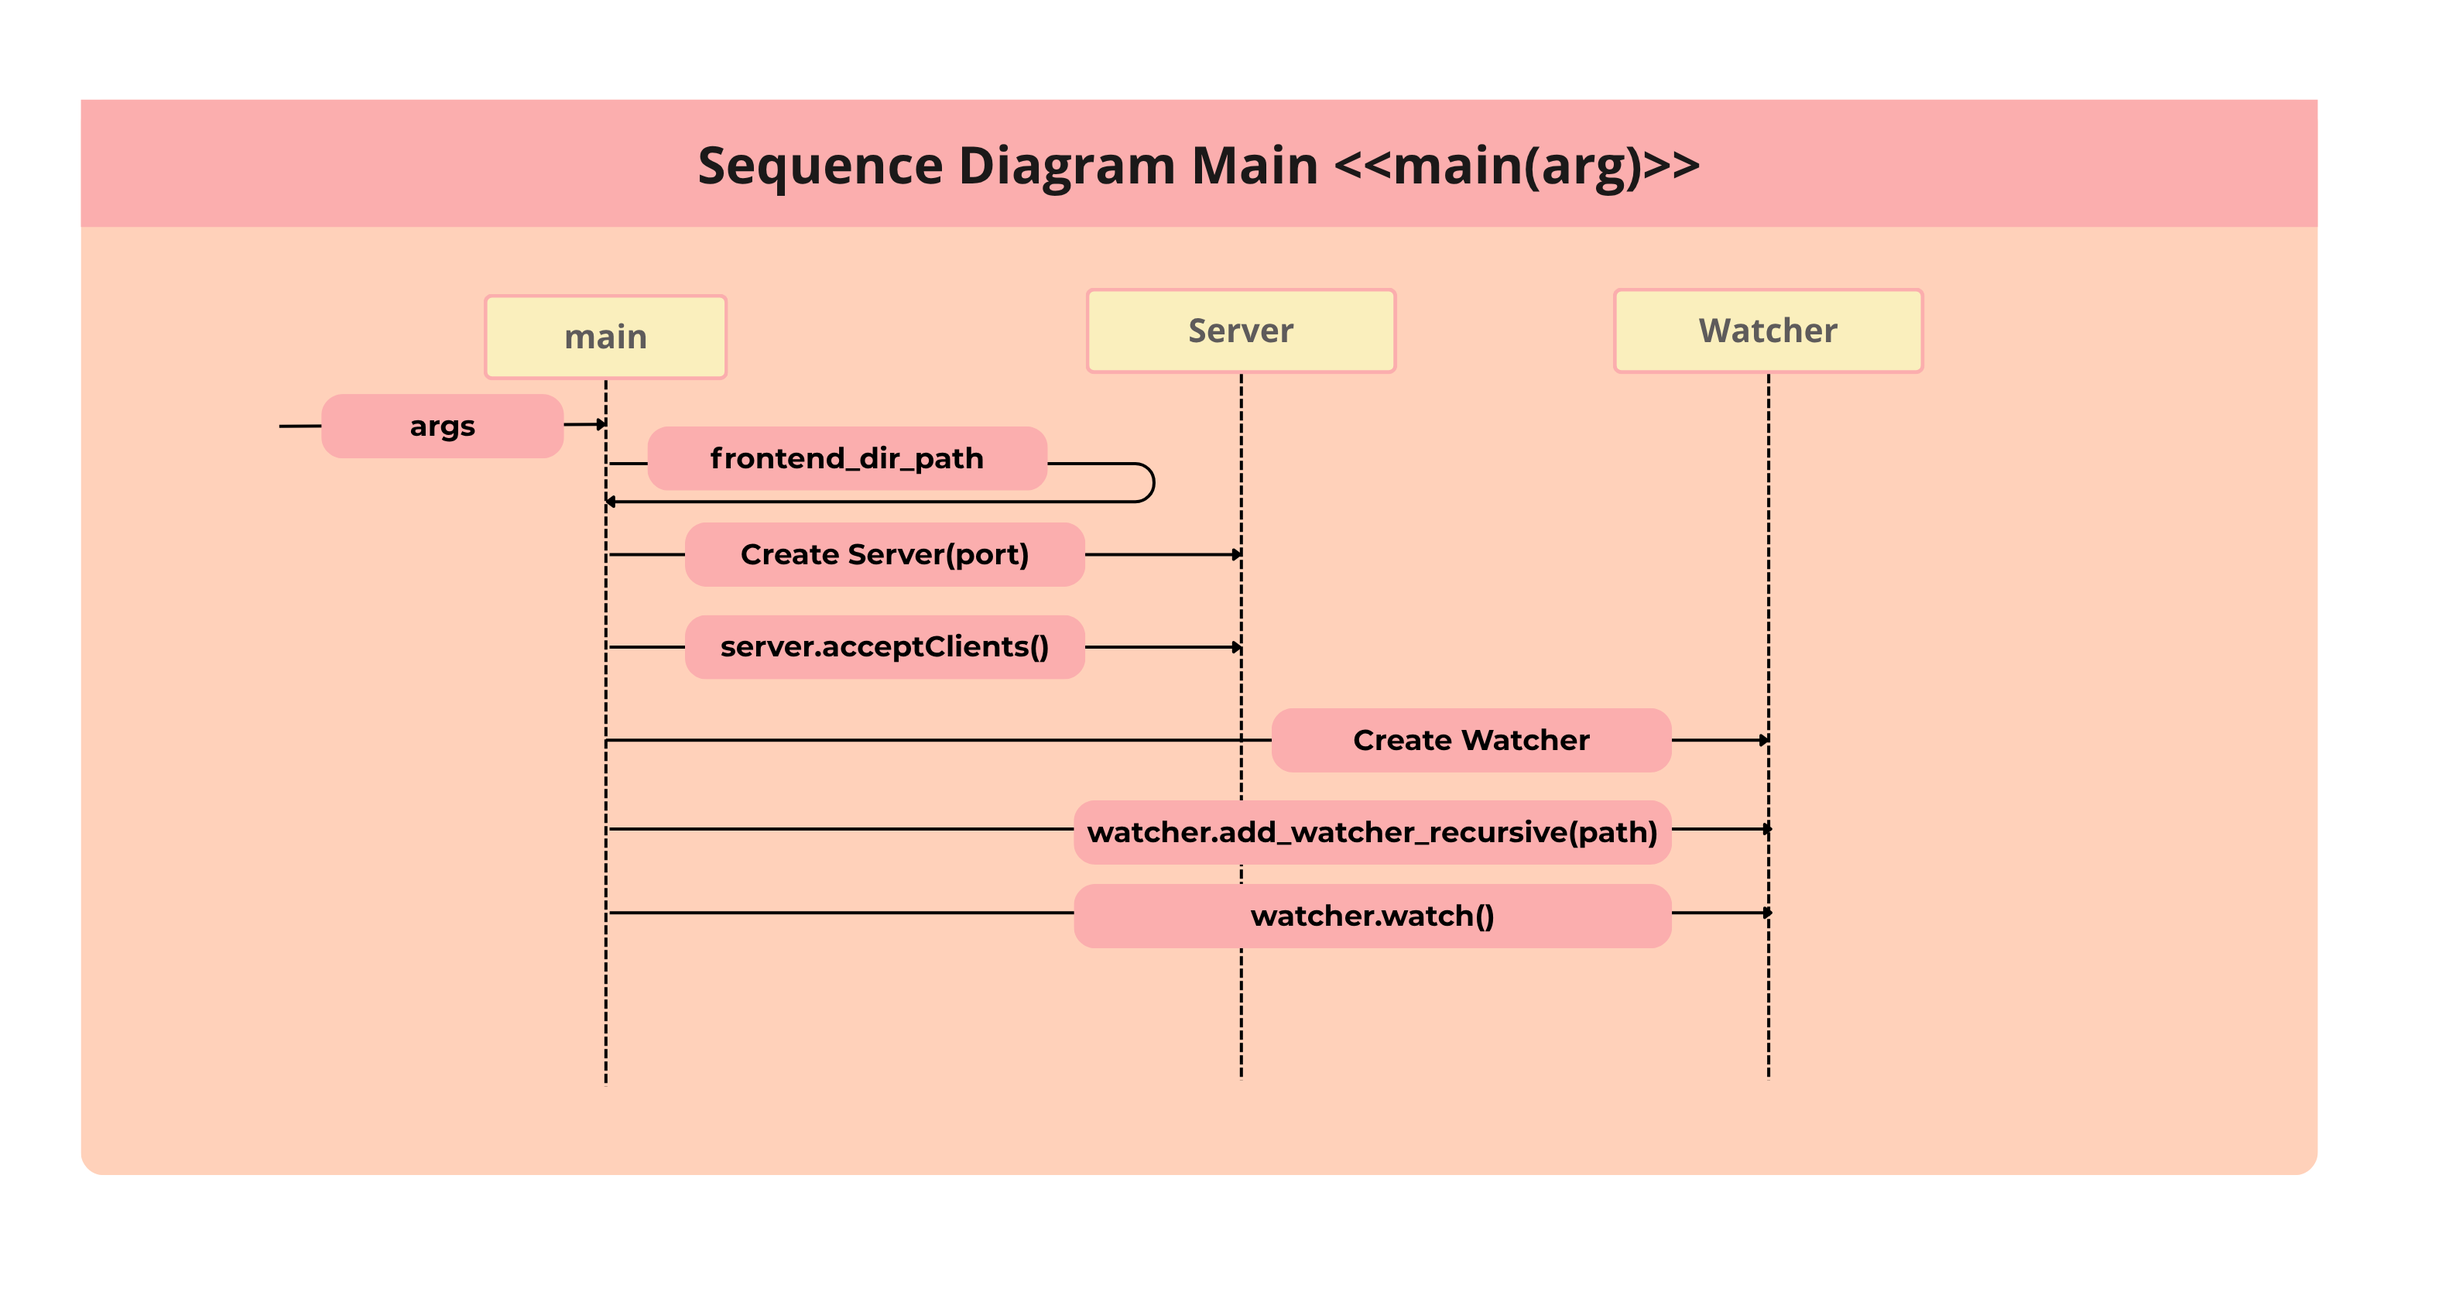
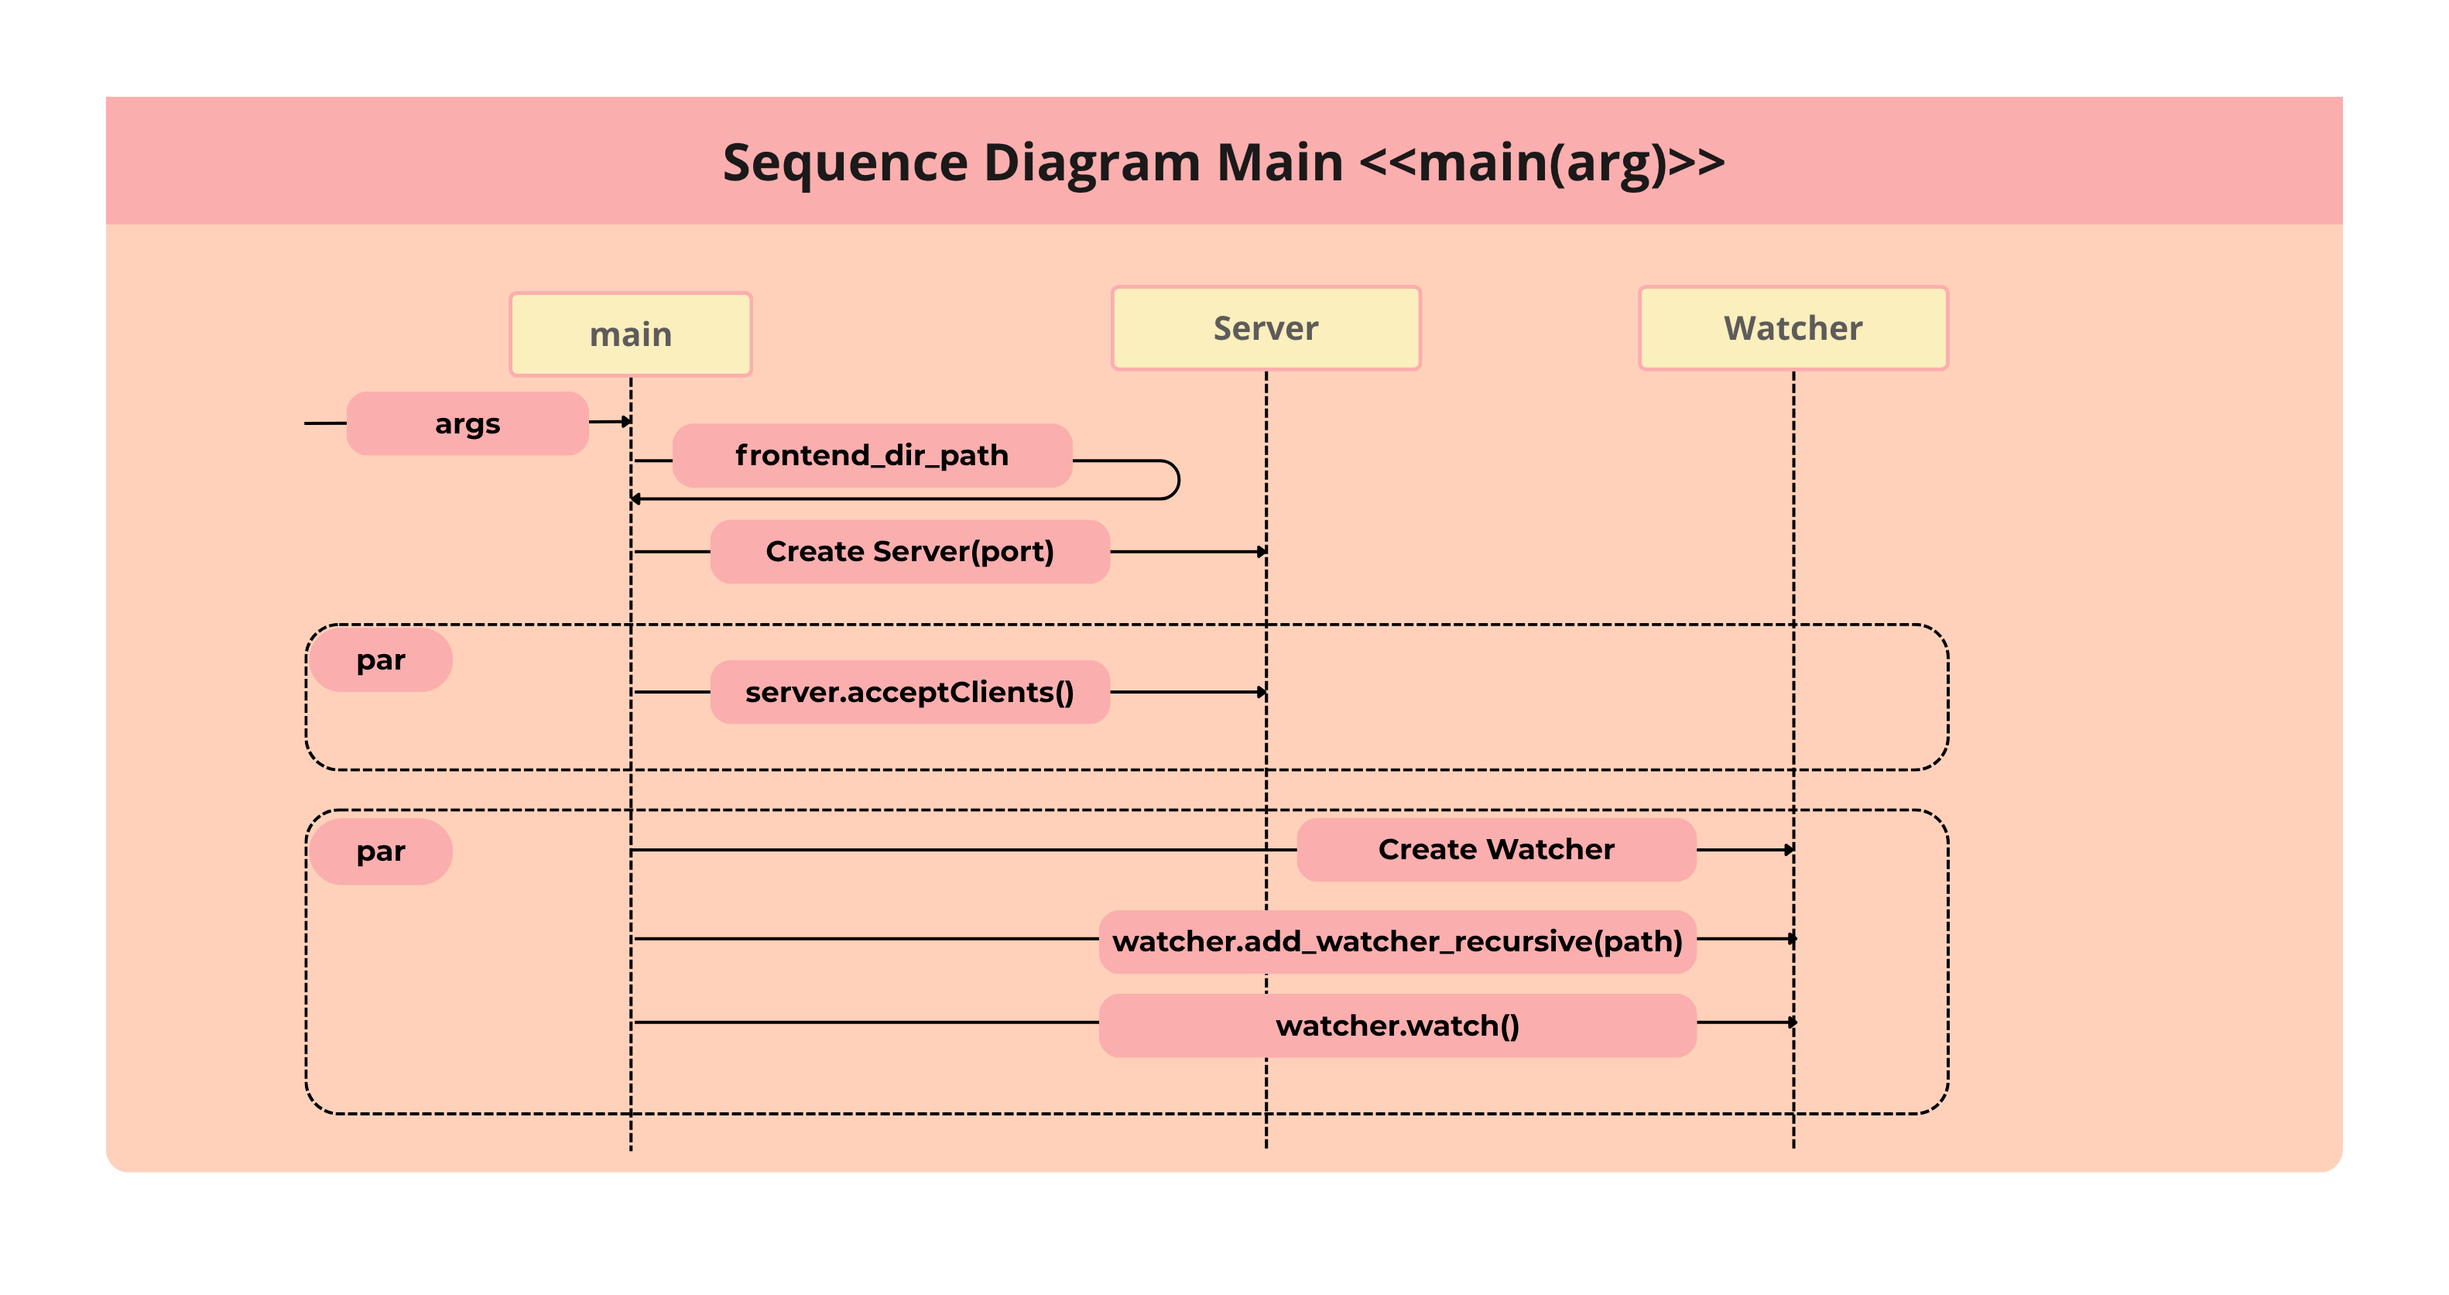
adding documentation

diff --git a/reloader/cpp/gateway.cpp b/reloader/cpp/gateway.cpp
@@ -25,50 +25,36 @@ std::string Gateway::build_request_path(char* buffer){
 }
 
 void Gateway::reload_endpoint(int client_fd){
-    // Inizializza l'header per SSE
     const std::string sse_headers =
         "HTTP/1.1 200 OK\r\n"
         "Content-Type: text/event-stream\r\n"
         "Cache-Control: no-cache\r\n"
         "Connection: keep-alive\r\n\r\n";
         
-    // Invia gli header SSE iniziali
     ssize_t sent = send(client_fd, sse_headers.c_str(), sse_headers.length(), 0);
     if (sent == -1) {
-        // Errore nell'invio degli header, la connessione è probabilmente chiusa.
         std::cerr << "Errore invio header SSE al client " << client_fd << std::endl;
         return;
     }
 
-    // Loop infinito per mantenere viva la connessione SSE e fare polling
     while (true) {
-        // 1. Legge lo stato dell'evento dal Singleton
         bool event_happened = events_register::getInstance().read_event();
 
         if (event_happened) {
-            // 2. Se l'evento è true, invia un messaggio SSE al client.
             const std::string sse_message = "data: reload\n\n";
             ssize_t bytes_sent = send(client_fd, sse_message.c_str(), sse_message.length(), 0);
 
             if (bytes_sent == -1) {
                 std::cerr << "Client " << client_fd << " disconnesso durante l'invio dell'evento." << std::endl;
-                break; // Esci dal loop se l'invio fallisce (client disconnesso)
+                break; 
             }
             std::cout << "Evento di ricarica inviato a client " << client_fd << std::endl;
 
         } else {
-            // 3. Se nessun evento è accaduto, attendi un breve periodo (polling).
-            // ATTENZIONE: un polling troppo rapido consuma molta CPU!
-            usleep(50000); // Attendi 50ms (50,000 microsecondi)
-            
-            // Invia periodicamente un "heartbeat" per mantenere viva la connessione
-            // e prevenire timeout da parte di proxy/firewall (SSE standard).
+            usleep(50000); 
             const std::string heartbeat = ":heartbeat\n\n";
             send(client_fd, heartbeat.c_str(), heartbeat.length(), MSG_NOSIGNAL);
         }
-
-        // Controllo aggiuntivo per vedere se il client ha chiuso la connessione.
-        // Se non fai questo controllo e il client chiude, il thread rimarrà bloccato nel loop.
         char buffer[1];
         if (recv(client_fd, buffer, 1, MSG_PEEK | MSG_DONTWAIT) == 0 && errno != EAGAIN) {
              std::cout << "Client " << client_fd << " ha chiuso la connessione (recv check)." << std::endl;
@@ -76,7 +62,6 @@ void Gateway::reload_endpoint(int client_fd){
         }
     }
 
-    // Qui il thread termina, chiudi il file descriptor del client.
     close(client_fd);
     std::cout << "Connessione SSE terminata per client " << client_fd << std::endl;
 }
@@ -105,7 +90,6 @@ void Gateway::injection_endopoint(int client_fd, const std::string& html_path){
     if (pos != std::string::npos) {
         html_template.insert(pos, script_tag);
     } else {
-        // Fallback: aggiungi in fondo se non trovi </body>
         html_template += script_tag;
     }
     bool full_http_header = false;

diff --git a/reloader/cpp/server.cpp b/reloader/cpp/server.cpp
@@ -55,10 +55,7 @@ bool ServerSSE::start(){
     }
     std::cout << "server start()" << std::endl;
 
-    // keep_polling.store(true);
-    // std::thread pollerThread(&ServerSSE::pollEvents, this);
-    // pollerThread.detach(); 
-    
+
     return true;
 
 }
@@ -70,12 +67,11 @@ void ServerSSE::acceptClients() {
     while ((client_fd = accept(server_fd, (struct sockaddr *)&address, (socklen_t*)&addrlen)) >= 0) {
         if (client_fd < 0) {
             perror("accept");
-            continue; // oppure break, dipende da cosa vuoi
+            continue; 
         }
         std::cout << "client_fd -> " << client_fd << std::endl;
-        // Avvia un thread per gestire il routing della richiesta
         std::thread clientThread(&ServerSSE::handleClientRequest, this, client_fd);
-        clientThread.detach(); // Il thread si gestirà da solo
+        clientThread.detach();
         
         std::cout << "Nuova richiesta da " 
                   << inet_ntoa(address.sin_addr) << ":" 
@@ -111,11 +107,7 @@ void ServerSSE::handleClientRequest(int client_fd) {
 
 
 void ServerSSE::setRootPath(const std::string& path) {
-    // Memorizza il percorso radice nella variabile membro
     m_html_root_dir = path; 
-    // std::cout<< m_html_root_dir << std::endl;
-    // DEBUG: Potresti aggiungere un controllo per rimuovere lo slash finale se presente, 
-    // per semplificare la concatenazione successiva (es. "/var/www/html" + "/index.html").
     if (!m_html_root_dir.empty() && m_html_root_dir.back() == '/') {
         m_html_root_dir.pop_back();
     }

diff --git a/reloader/main.cpp b/reloader/main.cpp
@@ -32,16 +32,14 @@ int main(int argc, char* argv[]){
         std::cerr << "ERRORE: Impossibile avviare il server sulla porta 8080.\n";
         return -1;
     }    
-    // Thread 1: Server HTTP e SSE
     std::thread acceptThread([&server]() { 
         try{
             std::cout << "Server thread started, listening on port 8080.\n";
-            server.acceptClients(); // Ciclo infinito
+            server.acceptClients(); 
         }catch(const std::exception& e){
             std::cout << "Eccezione nel main -> "<< e.what() << std::endl;
         }
     });    
-    // Thread 2: Watcher (inotify)
     Watcher watcher; 
 
     try {

diff --git a/docs/README.md b/docs/README.md
@@ -1,75 +1,162 @@
 # 🌐 Live-Server_SPA Documentation
 
-## Actors:
-As shown by the Use Case Diagram we have 4 different actors for this application:
-- **Dev**
-- **IDE**
-- **Browser**
-- **FileSystem**
+## 1. Actors
+As shown in the *Use Case Diagram*, the application involves 4 main actors:  
+
+- **Dev**  
+- **IDE**  
+- **Browser**  
+- **FileSystem**  
 
 <p align="center">
-  <img src="01-requisites/UseCaseDiagram.png" alt="Use Case Diagram" width="400"/>
+  <img src="01-requisites/UseCaseDiagram.png" alt="Use Case Diagram" width="700"/>
 </p>
+<p align="center"><sub><em>Figure 1 – Use Case Diagram for Live Server SPA</em></sub></p>
 
 ---
 
-# Requisites
-- **Start and stop the live Server**
-- **Serve Code to browser:** the application uses server side rendering in order to allow browser to display the html code
-- **Monitor the Changes that happen in the code base**
-- **Reload the browser page each time changes are spotted**
+## 2. Requirements
+The system must satisfy the following requirements:  
 
-<br/>
+- **Start and stop the Live Server**  
+- **Serve code to the browser** using *server-side rendering* (SSR)  
+- **Monitor changes in the codebase**  
+- **Reload the browser page whenever changes are detected**  
+- **Keep the codebase independent from the Live Server**  
 
-## Activity Diagrams
+---
 
-The first Activity diagram analyzes the startup of the live server from the perpective of the dev.
+## 3. Activity Diagrams
 
-<p align="center">
-  <img src="01-requisites/ActivityDiagram-1.png" alt="Activity Diagram Startup" width="400"/>
-</p>
-
-<br/>
-
-The second Activity diagram, instead, represents the way the Live server works once it is up and running. The activity diagram shows 3 different swimlanes that signify the different envirment that partecipate in order to allow the server to be run. While on Windows (Host OS) is used to open the browser, WSL needs to be the OS through which the entire programming process takes place, so both the IDE and the filesystems must be working with WSL. Finally, Docker runs the container that includes an Apache server, which executes the C++ server for server-side rendering.
+### 3.1 Live Server Startup
+The first diagram describes the startup of the Live Server from the **Dev** perspective.  
 
 <p align="center">
-  <img src="01-requisites/ActivityDiagram-2.png" alt="Activity Diagram running" width="400"/>
+  <img src="01-requisites/ActivityDiagram-1.png" alt="Activity Diagram Startup" width="700"/>
 </p>
+<p align="center"><sub><em>Figure 2 – Activity Diagram Startup</em></sub></p>
 
-<br/>
+---
 
-# Project Structure
-The envirements that compose the application, as seen before are WSL, Windows and Docker. This diagram explains the way all the components of the application communicate with each other. Docker runs a Apache server configured as a reverse proxy. Every request made is intercepted and sent to the cpp server hosted by the same machine. Together with the cpp server we have a docker volume that serves the porpuse to let apache always have the last updated version of the code base. 
-On WSL, instead, we have the scripts that allow to start and stop the application, the IDE and the filesystem with which the programmer is working. Finally, since we are using Linux as an OS the syscall inotify is used to spot any change on the code at runtime and communicate it to the backend that will execute operation descibed in the following chapters.
+### 3.2 Live Server Running
+The second diagram shows the Live Server operation once running.  
+
+It includes three **swimlanes**:  
+- **Windows (Host OS)** – used to open the browser  
+- **WSL** – hosts the IDE and filesystem  
+- **Docker** – runs an Apache container (configured as a reverse proxy) forwarding requests to the C++ server for SSR  
 
 <p align="center">
-  <img src="02-Design/ClassDiagram-1.png" alt="Class Diagram" width="400"/>
+  <img src="01-requisites/ActivityDiagram-2.png" alt="Activity Diagram running" width="700"/>
 </p>
+<p align="center"><sub><em>Figure 3 – Activity Diagram Running</em></sub></p>
 
-## Watcher
-The watcher is the class that needs to communicate with the syscall inotify. The only dependency that this class has is towards the events_register, designed for memorizing the state of the code base (modified / not modified).
+---
+
+## 4. Project Structure
+The application is composed of **WSL**, **Windows**, and **Docker**.  
+
+- **Docker**: runs Apache as a reverse proxy, forwarding requests to the C++ server. A *docker volume* ensures Apache always serves the latest codebase version.  
+- **WSL**: contains scripts to start/stop the app, the IDE, and the filesystem.  
+- **inotify (Linux syscall)**: detects file changes in real time and communicates them to the backend.  
 
 <p align="center">
-  <img src="02-Design/SequenceDiagramWatcher-1.png" alt="Sequence Diagram Watcher Contructorr" width="400"/>
+  <img src="02-Design/ClassDiagram-1.png" alt="Class Diagram" width="800"/>
 </p>
+<p align="center"><sub><em>Figure 4 – Class Diagram</em></sub></p>
 
-<br/>
+---
 
-This function is used for monitoring the file changes. In order to make sure that the live server records them, we will have to add a watcher to both subdirectories and files included in them. That function executes this recursively, it starts from a parent directory, that is the one passed to the main, for then opening it and attach the watcher to all its children until all of them ended up being monitored.
+## 5. Watcher
+The **Watcher** class communicates with the `inotify` syscall.  
+It depends only on **events_register**, which keeps track of the codebase update state.  
+
+- **Constructor**  
+<p align="center">
+  <img src="02-Design/SequenceDiagramWatcher-1.png" alt="Sequence Diagram Watcher Constructor" width="800"/>
+</p>
+<p align="center"><sub><em>Figure 5 – Sequence Diagram Watcher (Constructor)</em></sub></p>
+
+- **Recursive watcher setup**  
+The method `add_watcher_recursive()` monitors the parent directory and all its subdirectories.  
+<p align="center">
+  <img src="02-Design/SequenceDiagramWatcher-3.png" alt="Sequence Diagram Watcher add_watcher_recursive" width="800"/>
+</p>
+<p align="center"><sub><em>Figure 6 – Sequence Diagram Watcher add_watcher_recursive()</em></sub></p>
+
+- **Monitoring changes**  
+The `watch()` method uses the blocking `read()` function to capture events, which are then registered with `add_event()`.  
+<p align="center">
+  <img src="02-Design/SequenceDiagramWatcher-2.png" alt="Sequence Diagram Watcher Watch()" width="800"/>
+</p>
+<p align="center"><sub><em>Figure 7 – Sequence Diagram Watcher watch()</em></sub></p>
+
+---
+
+## 6. Server
+The **Server** has two main purposes:  
+
+1. **Notify changes to the browser** using **Server-Sent Events (SSE)**  
+2. **Perform Server-Side Rendering (SSR)**: Apache intercepts requests and forwards them to the C++ backend  
+
+To keep the **codebase independent from the Live Server**, an endpoint injects runtime JavaScript that initializes the SSE connection in the browser.  
 
 <p align="center">
-  <img src="02-Design/SequenceDiagramWatcher-3.png" alt="Sequence Diagram Watcher add_watcher_recursive" width="400"/>
+  <img src="02-Design/Artifact.png" alt="Server Artifact" width="800"/>
 </p>
+<p align="center"><sub><em>Figure 8 – Server Artifact</em></sub></p>
 
-<br/>
+- **Handling client requests**  
+<p align="center">
+  <img src="02-Design/SequenceDiagramServer-1.png" alt="Sequence Diagram Server handleClientRequest" width="800"/>
+</p>
+<p align="center"><sub><em>Figure 9 – Sequence Diagram Server handleClientRequest()</em></sub></p>
 
-The function watch, instead, has the goal of read the changes. Whenever a modification is done by the dev the function read (which is a blocking function) return a set of events that match the changes done to the loaded code base. Once that is done we proceed to record this by calling the function add_event().
+- **Accepting clients**  
+<p align="center">
+  <img src="02-Design/SequenceDiagramServer-2.png" alt="Sequence Diagram Server acceptClients" width="800"/>
+</p>
+<p align="center"><sub><em>Figure 10 – Sequence Diagram Server acceptClients()</em></sub></p>
+
+---
+
+## 7. Gateway
+The **Gateway** class implements the two main endpoints:  
+
+- **reload_endpoint()**  
+<p align="center">
+  <img src="02-Design/SequenceDiagramGateway-1.png" alt="Sequence Diagram Gateway reload_endpoint" width="800"/>
+</p>
+<p align="center"><sub><em>Figure 11 – Sequence Diagram Gateway reload_endpoint()</em></sub></p>
+
+- **injection_endpoint()**  
+<p align="center">
+  <img src="02-Design/SequenceDiagramGateway-2.png" alt="Sequence Diagram Gateway injection_endpoint" width="800"/>
+</p>
+<p align="center"><sub><em>Figure 12 – Sequence Diagram Gateway injection_endpoint()</em></sub></p>
+
+---
+
+## 8. Main
+The **main** program:  
+1. Retrieves the path of the *docker volume*  
+2. Creates **Server** and **Watcher** instances  
+3. Runs both concurrently  
+
+- `AcceptClients()` spawns a new thread for each client request  
+- The parent thread runs the **Watcher**  
 
 <p align="center">
-  <img src="02-Design/SequenceDiagramWatcher-2.png" alt="Sequence Diagram Watcher Watch() " width="400"/>
+  <img src="02-Design/SequenceDiagramMain.png" alt="Sequence Diagram Main" width="800"/>
 </p>
+<p align="center"><sub><em>Figure 13 – Sequence Diagram Main</em></sub></p>
 
-<br/>
+---
 
-## Server
+## 9. Concurrency
+Finally, the concurrency between **Watcher**, **Gateway**, and **events_register** is represented below:  
+
+<p align="center">
+  <img src="02-Design/SequenceDiagramConcurrency.png" alt="Sequence Diagram Concurrency" width="800"/>
+</p>
+<p align="center"><sub><em>Figure 14 – Sequence Diagram Concurrency</em></sub></p>
